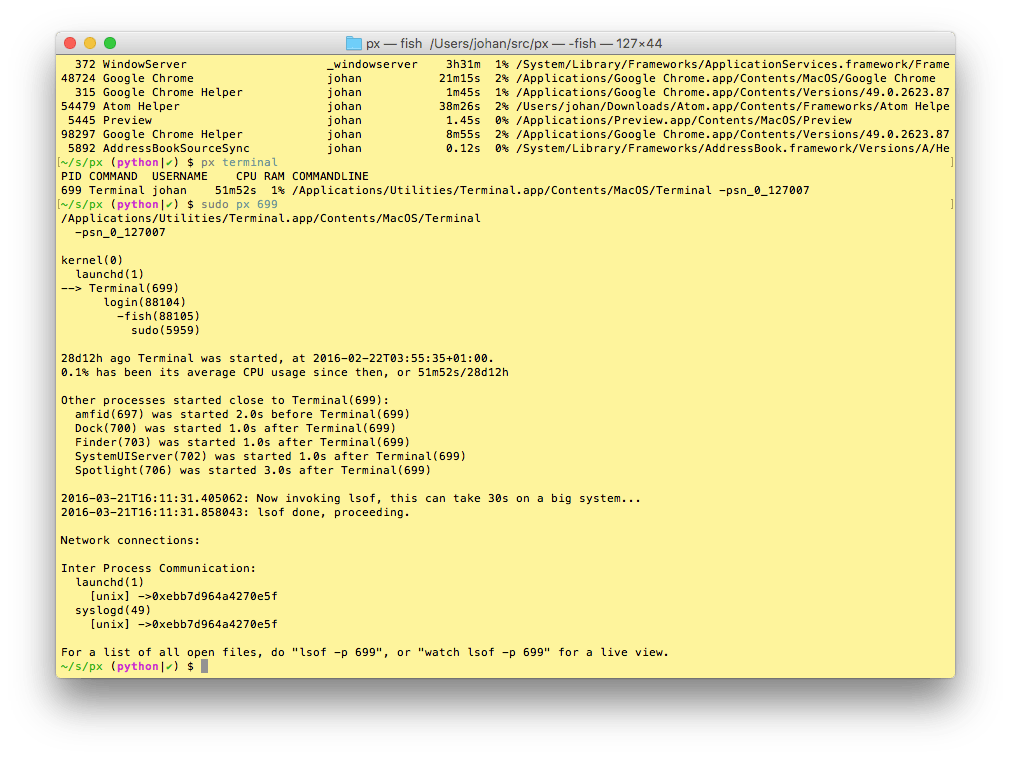
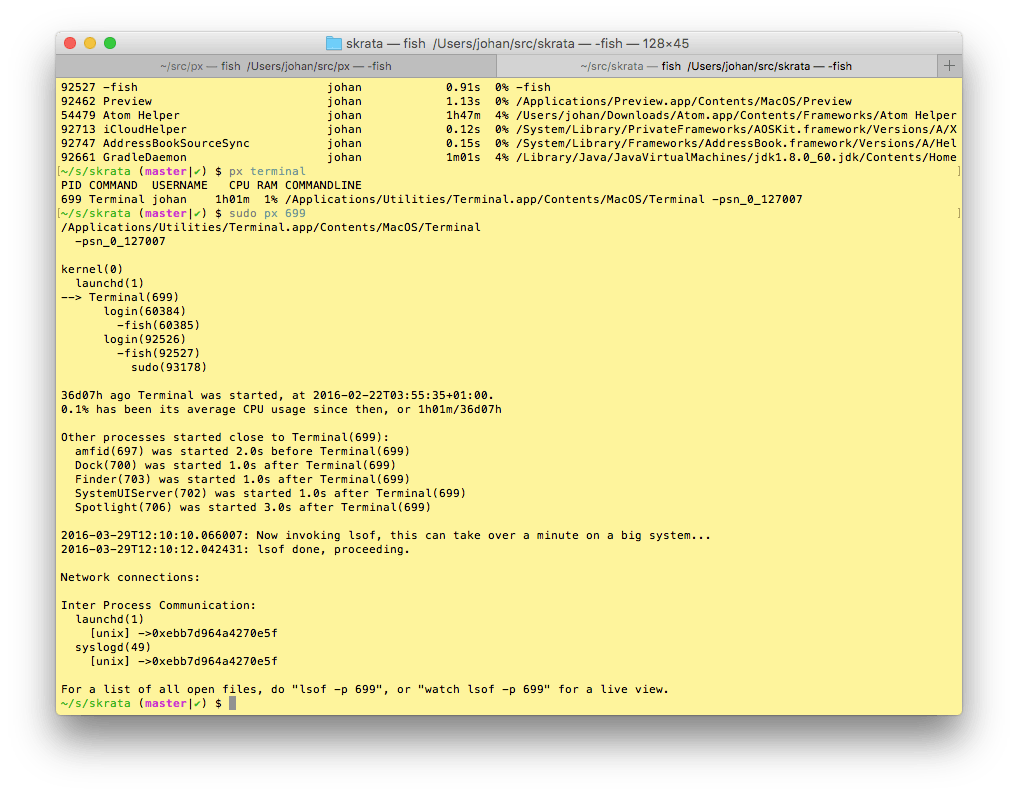
README + screenshot.png: Update with Java command line parsing

Changed region(s): [[0.0307, 0.0303, 0.9505, 0.9103]]

diff --git a/README.md b/README.md
@@ -18,9 +18,11 @@ symlink ending in `top`. `ptop` anyone?
 ![Screenshot](https://raw.githubusercontent.com/walles/px/python/screenshot.png)
 
 This screenshot shows:
-* The end of the output from just typing `px`. Note how the newest and the most
-CPU and memory hungry processes are at the end of the list so you can find them
-without scrolling.
+* The end of the output from just typing `px`.
+  * Note how the newest and the most CPU and memory hungry processes are at the
+  end of the list so you can find them without scrolling.
+  * Note how the Gradle daemon processes running in Java is listed by class name
+  (`GradleDaemon`) rather than the JVM executable name (`java`).
 * The result of searching for "terminal" processes.
 * The output from the details view of PID 699:
   * The command line has been split with one argument per line. This makes long
@@ -92,6 +94,9 @@ usage and present that in one or more columns.
 # TODO misc
 * In the details report, if the current process has a working directory that
 isn't `/`, list all other processes that have the same working directory.
+* In the details tree view, maybe print process owners for each line?
+* In the px / top views, in the process owner column, maybe print other non-root
+process owners of parent processes inside parentheses?
 
 # DONE
 * Make `px` list all processes with PID, owner, memory usage (in % of available
@@ -132,3 +137,5 @@ same time as the one we're currently looking at.
 * top: On pressing "q" to exit, redraw the screen one last time with a few less
 rows than usual before exiting.
 * top: Print system load before the process listing.
+* Parse Java and Python command lines and print the name of the program being
+executed rather than the VM.
